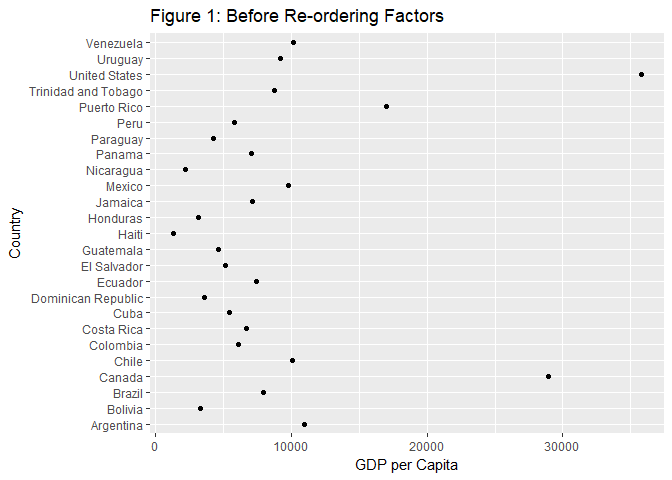
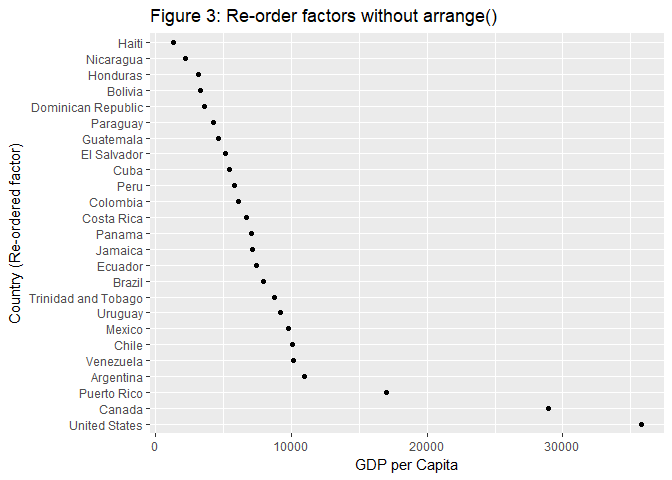
46th Commit from RStudio

diff --git a/hw05/hw05.md b/hw05/hw05.md
@@ -8,7 +8,7 @@ Report process
 
 1.  Problems I ran into
 
-    -   Drop factor level. I tried to pipe gapminder into `droplevels()` but failed. But I realized that this problem can be solved in 2 ways (see below).
+    -   Drop factor level. I tried to pipe gapminder into `droplevels()` but failed. But I realized that this problem can be solved in 2 ways (see below). `factor()` a factor can also be used to drop level.
     -   I tried to use `write_csv()` to export table into a PDF. Obviously, this is wrong since the function is call "csv", not PDF. I also tried to export to .xlsx using `dput()`. The file can be found but it is broken. If the file is exported in .xls form, it can be opened. I don't know why.
     -   I had trouble in adding picture into the MD file. This is because when using `![Alt text](/path/to/img.png)` I did not remove "path" when the figure is in the same subfolder as the RMD/MD file.
     -   I finished the "want to do more" question. However, I solved it in a stupid way. Look forward to getting new ways to solve it.
@@ -16,7 +16,7 @@ Report process
 
 2.  Clean the repo
 
-    -   I noticed that if I only delete all figures in a auto-generated folder, all figures in MD file will disappear. So I still keep these necessary figures.
+    -   I noticed that if I only deleted all figures in an auto-generated folder, all figures in the MD file will disappear. So I still keep these necessary figures.
     -   In HW03, since I put figures and tables side by side which is only available in HTML, I still keep this HTML in the folder. All other HTMLs are deleted.
     -   All files exported in this homework 5 are still kept in the folder, including tables and figures.
     -   The top-level README was modified with a description of each homework.
@@ -124,18 +124,7 @@ str(a1$country)
 
     ##  Factor w/ 142 levels "Afghanistan",..: 1 1 1 1 1 1 1 1 1 1 ...
 
-Since the dataset is too long, I do not display the result above. In order to prove that Oceania is completely removed, I used the following codes and got `0 rows`.
-
-``` r
-a1 %>%
-        filter(continent == "Oceania")
-```
-
-    ## # A tibble: 0 x 6
-    ## # ... with 6 variables: country <fctr>, continent <fctr>, year <int>,
-    ## #   lifeExp <dbl>, pop <int>, gdpPercap <dbl>
-
-Now, I wan to remove unused factor levels, Oceania and corresponding countries. From the result, it is obvious that Oceania disappears from the `continent` factors (4 levels in total). The number of countries decreases to 140 (two Oceania countries disappeared). There are only 1680 rows left.
+Now, I want to remove unused factor levels, Oceania and corresponding countries. From the result, it is obvious that Oceania disappears from the `continent` factors (4 levels in total). The number of countries decreases to 140 (two Oceania countries disappeared). There are only 1680 rows left.
 
 ``` r
 # Remove unused factor levels
@@ -258,7 +247,7 @@ fct_reorder(gapminder$country, gapminder$gdpPercap, max, .desc = TRUE) %>%
     ## [139] "Zimbabwe"                 "Malawi"                  
     ## [141] "Ethiopia"                 "Burundi"
 
-Let me try to reorder `continent' by minimum`pop\` and make it in the increase order. This result matches our knowledge that Asia has the largest population and Oceania has the lowest.
+Let me try to reorder `continent` by minimum `pop` and make it in the increase order. This result matches our knowledge that Asia has the largest population and Oceania has the lowest.
 
 ``` r
 fct_reorder(gapminder$continent, gapminder$pop, max, .desc = FALSE) %>%
@@ -300,7 +289,7 @@ gap_america_1997 %>%
         labs(x="GDP per Capita", y="Country", title="Figure 1: Before Re-ordering Factors")
 ```
 
-![](hw05_files/figure-markdown_github-ascii_identifiers/unnamed-chunk-8-1.png)
+![](hw05_files/figure-markdown_github-ascii_identifiers/unnamed-chunk-7-1.png)
 
 ``` r
 # Figure 2: after reordering the factor
@@ -310,7 +299,7 @@ gap_america_1997 %>%
         labs(x="GDP per Capita", y="Country (Re-ordered factor)", title="Figure 2: After Re-ordering Factors")
 ```
 
-![](hw05_files/figure-markdown_github-ascii_identifiers/unnamed-chunk-8-2.png)
+![](hw05_files/figure-markdown_github-ascii_identifiers/unnamed-chunk-7-2.png)
 
 Second, let me explore the effects of reordering a factor and factor reordering coupled with `arrange()`. I would like to copy the Figure 2 above (called Figure 3 below) and compare it with another figure with `arrange()`. Since the factor is already re-ordered in decend order, I arrange `gdpPercap` in an increasing order to see the change.
 
@@ -327,7 +316,7 @@ gap_america_1997 %>%
              title="Figure 3: Re-order factors without arrange()")
 ```
 
-![](hw05_files/figure-markdown_github-ascii_identifiers/unnamed-chunk-9-1.png)
+![](hw05_files/figure-markdown_github-ascii_identifiers/unnamed-chunk-8-1.png)
 
 ``` r
 # Figure 4: Re-order factor without arrange()
@@ -339,7 +328,7 @@ gap_america_1997 %>%
              title="Figure 4: Re-order factors with arrange()")
 ```
 
-![](hw05_files/figure-markdown_github-ascii_identifiers/unnamed-chunk-9-2.png)
+![](hw05_files/figure-markdown_github-ascii_identifiers/unnamed-chunk-8-2.png)
 
 File I/O
 ========
@@ -388,7 +377,7 @@ write_csv(gap_eu_gdp, "gap_eu_gdp_1.csv")
 dput(gap_eu_gdp, "gap_eu_gdp_2.xls")
 ```
 
-Next, import data from saved files.
+Next, import data from saved files. Just display the first 6 rows to prove they are imported successfully.
 
 ``` r
 # Method 1
@@ -403,9 +392,32 @@ import_1 <- read_csv("gap_eu_gdp_1.csv")
     ## )
 
 ``` r
+kable(head(import_1))
+```
+
+| country                | continent |  GDP\_cap\_max|
+|:-----------------------|:----------|--------------:|
+| Albania                | Europe    |       5937.030|
+| Austria                | Europe    |      36126.493|
+| Belgium                | Europe    |      33692.605|
+| Bosnia and Herzegovina | Europe    |       7446.299|
+| Bulgaria               | Europe    |      10680.793|
+| Croatia                | Europe    |      14619.223|
+
+``` r
 # Method 2
 import_2 <- dget("gap_eu_gdp_2.xls")
+kable(head(import_2))
 ```
+
+| country                | continent |  GDP\_cap\_max|
+|:-----------------------|:----------|--------------:|
+| Albania                | Europe    |       5937.030|
+| Austria                | Europe    |      36126.493|
+| Belgium                | Europe    |      33692.605|
+| Bosnia and Herzegovina | Europe    |       7446.299|
+| Bulgaria               | Europe    |      10680.793|
+| Croatia                | Europe    |      14619.223|
 
 Visualization design
 ====================
@@ -414,7 +426,19 @@ Remake at least one figure or create a new one, in light of something you learne
 
 Answer:
 
-I plotted `pop` vs `gdpPercap` in log scale. The colors are modified by using `scale_colour_distiller()`.
+I plotted `pop` vs `gdpPercap` in log scale. The colors are modified by using `scale_colour_distiller()`. If I don't use `scale_colour_distiller()`, the default colorbar is blue. After using `scale_colour_distiller()`, the color is green.
+
+``` r
+(x5 <- gapminder %>%
+        ggplot(aes(pop, gdpPercap)) +
+        geom_point(aes(colour=year)) +
+        scale_x_log10() +
+        scale_y_log10() +
+        facet_wrap(~year) +
+        labs(x="Population", y="GDP per Capita", title="Figure 5: without visualization design"))
+```
+
+![](hw05_files/figure-markdown_github-ascii_identifiers/unnamed-chunk-12-1.png)
 
 ``` r
 (f5 <- gapminder %>%
@@ -424,12 +448,39 @@ I plotted `pop` vs `gdpPercap` in log scale. The colors are modified by using `s
         scale_y_log10() +
         facet_wrap(~year) +
         scale_colour_distiller(palette="Greens", direction=1) +
-        labs(x="Population", y="GDP per Capita", title="Figure 5"))
+        labs(x="Population", y="GDP per Capita", title="Figure 6: with visualization design"))
 ```
 
-![](hw05_files/figure-markdown_github-ascii_identifiers/unnamed-chunk-13-1.png)
+![](hw05_files/figure-markdown_github-ascii_identifiers/unnamed-chunk-12-2.png)
 
-Here is another trial. Plot `pop` vs `year`. Use `scale_fill_manual()` and `brewer.pal()` to change the color.
+Here is another trial. Plot `pop` vs `year`. Use `scale_fill_manual()` and `brewer.pal()` to change the color. By comparing two figures, it is obvious that the y axis is optimized and the legend color looks much better.
+
+``` r
+gapminder %>% 
+        filter(year > 1970 & year < 2000) %>%
+        ggplot(aes(x=year)) +
+        geom_bar(aes(weight=pop, fill=continent),
+                 position="dodge",
+                 colour="black") +
+        scale_y_log10() +
+        labs(x="Year", y="Population", title="Figure 7: without visualization design")
+```
+
+    ## Warning in FUN(X[[i]], ...): integer overflow - use sum(as.numeric(.))
+
+    ## Warning in FUN(X[[i]], ...): integer overflow - use sum(as.numeric(.))
+
+    ## Warning in FUN(X[[i]], ...): integer overflow - use sum(as.numeric(.))
+
+    ## Warning in FUN(X[[i]], ...): integer overflow - use sum(as.numeric(.))
+
+    ## Warning in FUN(X[[i]], ...): integer overflow - use sum(as.numeric(.))
+
+    ## Warning in FUN(X[[i]], ...): integer overflow - use sum(as.numeric(.))
+
+    ## Warning: Transformation introduced infinite values in continuous y-axis
+
+![](hw05_files/figure-markdown_github-ascii_identifiers/unnamed-chunk-13-1.png)
 
 ``` r
 gapminder %>% 
@@ -441,7 +492,7 @@ gapminder %>%
         scale_y_log10() +
         scale_y_continuous("Population") +
         scale_fill_manual(values=brewer.pal(n=5, "RdYlGn")) +
-        labs(x="Year", y="Population", title="Figure 6")
+        labs(x="Year", y="Population", title="Figure 8: with visualization design")
 ```
 
     ## Scale for 'y' is already present. Adding another scale for 'y', which
@@ -459,7 +510,7 @@ gapminder %>%
 
     ## Warning in FUN(X[[i]], ...): integer overflow - use sum(as.numeric(.))
 
-![](hw05_files/figure-markdown_github-ascii_identifiers/unnamed-chunk-14-1.png)
+![](hw05_files/figure-markdown_github-ascii_identifiers/unnamed-chunk-13-2.png)
 
 Writing figures to file
 =======================
@@ -470,7 +521,7 @@ Arguments of `ggsave()`, such as width, height, resolution or text scaling. Vari
 
 Answer:
 
-I would like to save Figure 5 in the previous question. The figure is saved to both PDF and PNG format. The size and resolution are also specified.
+I would like to save Figure 6 in the previous question. The figure is saved to both PDF and PNG format. The size and resolution are also specified.
 
 ``` r
 # Vector form
